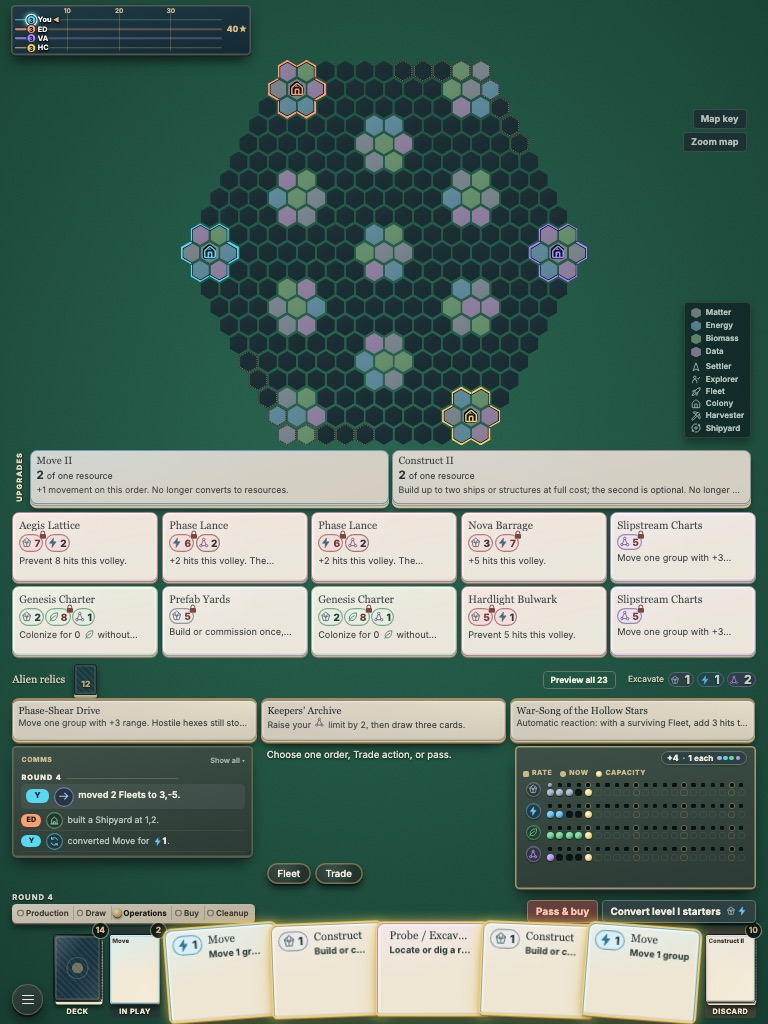
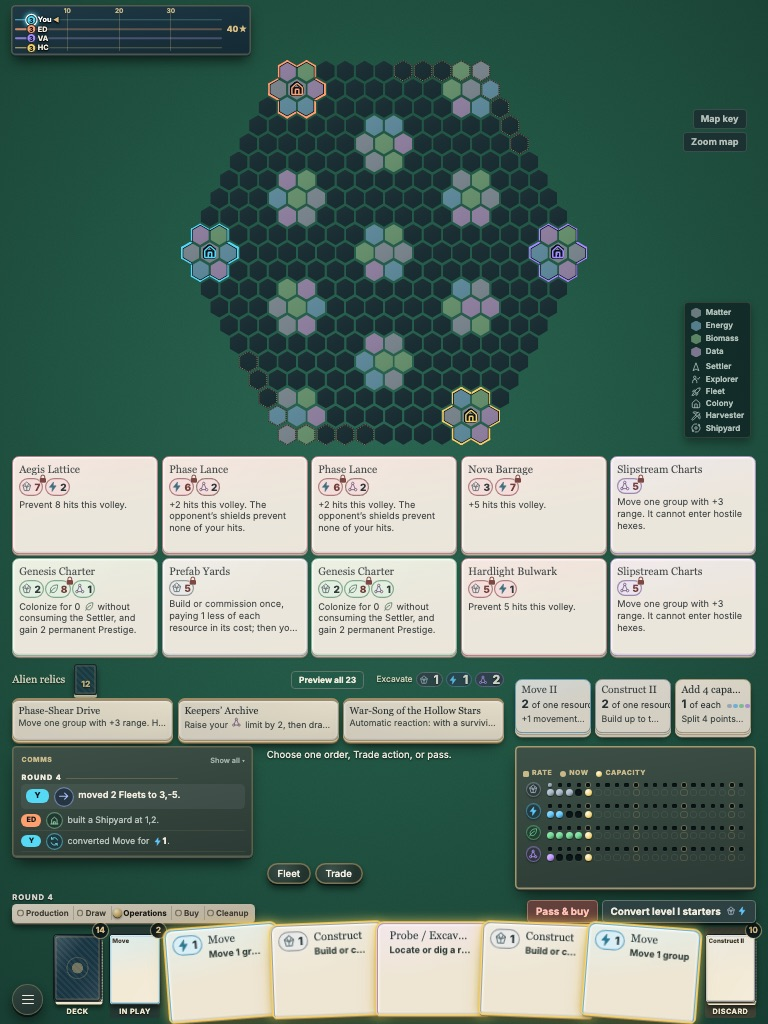
Upgrades group directly above the mat: starter upgrades and Add 4 capacity as cards with their current prices (and Trash a card during Buy); the +4 token leaves the mat

Changed region(s): [[0.0, 0.4375, 1.0, 0.625], [0.2188, 0.6562, 1.0, 0.75]]

diff --git a/prototypes/galactic-reach/rulebook.html b/prototypes/galactic-reach/rulebook.html
@@ -123,7 +123,7 @@
 
       <section id="movement">
         <h2>05 / Exploration &amp; movement</h2>
-        <p id="shared-board">Read shared table information around the board: on a desktop window, the whole window is one table, scaled as a whole to fit; the standings are the race to the Prestige goal, a small printed track by the map’s top-left corner with one lane per faction and its marker at its current score (the acting faction’s marker glows, with an arrow; point at or focus a marker for an overview of that faction’s Prestige sources, colonies, cards bought and fleet power, or select it for the breakdown; on a phone the track is the <strong>Table</strong> drawer); the comms feed lies in the bottom-left corner as a small card of the latest three entries, printed like your player mat; select it to open the whole feed, and again (or press Escape) to close it (each entry shows who acted, a symbol for the kind of event and its resource and Prestige amounts; point at an entry for the full sentence); the map itself fills all the space the other pieces leave, reaching into the corners around the track and the comms card, with a short key of the terrain colours and pieces in its bottom-right corner (the <strong>Map key</strong> button has the full descriptions); and to its right lies the supply, all visible together: the <strong>Upgrades</strong> tray (with <strong>Trash a card</strong> beside it during Buy), the ten market cards and the face-up alien relics; below the supply, by your seat, are the round’s phases, the turn prompt, <strong>Fleet</strong> and <strong>Trade</strong>, then the turn’s buttons. On your turn your hand glows and gently breathes (a still glow when your device asks for reduced motion). <strong>Fleet</strong> opens over the supply. The game’s title, rules, card gallery, new game, Undo and playtest notes open from the menu button in the bottom-left corner. The market shows its cards with their names and as much of each effect as fits, wrapped; on a wide window the market cards are drawn in real card proportions, three to five to a row, whichever makes them largest (point at one to read it in full; choose it to buy), and cards you can buy now are outlined in gold. <strong>Trade</strong> opens the trade channel in its own window. Card frames take the colour of the resource a card works with (gold for capacity, Buy and Prestige cards, red for military and attack cards); the map key shows them. Select a Prestige marker to inspect its breakdown; the scoring reference is in <a href="#victory">Victory</a>. On a narrow screen, these panels reflow inside the board frame; scroll the map to reach other hexes. The recent-action feed can say that Probe was used, but never gives its private relic location. Your hand, card piles, reserves, and full game-report download stay on your player mat. The report can include private information.</p>
+        <p id="shared-board">Read shared table information around the board: on a desktop window, the whole window is one table, scaled as a whole to fit; the standings are the race to the Prestige goal, a small printed track by the map’s top-left corner with one lane per faction and its marker at its current score (the acting faction’s marker glows, with an arrow; point at or focus a marker for an overview of that faction’s Prestige sources, colonies, cards bought and fleet power, or select it for the breakdown; on a phone the track is the <strong>Table</strong> drawer); the comms feed lies in the bottom-left corner as a small card of the latest three entries, printed like your player mat; select it to open the whole feed, and again (or press Escape) to close it (each entry shows who acted, a symbol for the kind of event and its resource and Prestige amounts; point at an entry for the full sentence); the map itself fills all the space the other pieces leave, reaching into the corners around the track and the comms card, with a short key of the terrain colours and pieces in its bottom-right corner (the <strong>Map key</strong> button has the full descriptions); and to its right lies the supply, all visible together: the ten market cards and the face-up alien relics; below the supply, by your seat, are the round’s phases, the turn prompt, <strong>Fleet</strong> and <strong>Trade</strong>, then the turn’s buttons, and directly above your player mat the <strong>Upgrades</strong> group: the starter upgrades and <strong>Add 4 capacity</strong> as cards, each showing its current price (with <strong>Trash a card</strong> beside them during Buy). On your turn your hand glows and gently breathes (a still glow when your device asks for reduced motion). <strong>Fleet</strong> opens over the supply. The game’s title, rules, card gallery, new game, Undo and playtest notes open from the menu button in the bottom-left corner. The market shows its cards with their names and as much of each effect as fits, wrapped; on a wide window the market cards are drawn in real card proportions, three to five to a row, whichever makes them largest (point at one to read it in full; choose it to buy), and cards you can buy now are outlined in gold. <strong>Trade</strong> opens the trade channel in its own window. Card frames take the colour of the resource a card works with (gold for capacity, Buy and Prestige cards, red for military and attack cards); the map key shows them. Select a Prestige marker to inspect its breakdown; the scoring reference is in <a href="#victory">Victory</a>. On a narrow screen, these panels reflow inside the board frame; scroll the map to reach other hexes. The recent-action feed can say that Probe was used, but never gives its private relic location. Your hand, card piles, reserves, and full game-report download stay on your player mat. The report can include private information.</p>
         <p id="keyboard-controls">Use <strong>Tab</strong> to reach controls and <strong>Enter</strong> or <strong>Space</strong> to activate them. The first link skips straight to player controls. Use arrow keys, Home, or End to switch the player-control tabs. Escape closes inspectors and reference windows. Combat and excess-resource choices stay open until you make the required choice.</p>
         <div class="book-legend" role="group" aria-label="Map symbols"><span><b class="relic-mark" aria-hidden="true">◈</b> Located relic</span><span><b class="relic-mark" aria-hidden="true">●</b> Gray moon · no production</span></div>
         <p>World terrain is always public, but seeing a world does not locate its relic. Any Settler, Fleet, or Explorer ending a move surveys that world or moon, revealing its terrain to everyone. Arrival never locates a relic. Use <strong>Probe</strong> from your Explorer’s current hex to locate the nearest remaining relic you have not already discovered, even on an unvisited world or hidden moon. Known sites are skipped. When you locate the last unknown site, a message tells you that all remaining relics are discovered. If all remaining sites are already known to you, Probe warns you without spending the card or your action. You do not need to reach that world or moon first. A signal on an undiscovered moon reveals the relic’s hex to you without revealing the moon’s terrain. Other players must locate it for themselves. Existing discovery relic cards keep their printed effects. Probe and Chorus signals stay private after later terrain surveys. Only an effect that explicitly reveals relics to everyone makes them public. All players’ units remain visible, including in empty space. Unit markers alone do not reveal a hidden moon or relic.</p>
@@ -198,7 +198,7 @@
       <section id="buy">
         <h2>09 / Improve your deck</h2>
         <p id="deck-inspection">Click <strong>Deck</strong> to inspect the cards remaining in your draw pile. Cards are grouped by name, starter status, and level, with quantities. Their draw order is hidden. Opening this view does not draw, shuffle, or change cards. Other factions cannot inspect your deck. Replays show deck size only.</p>
-        <p id="player-mat">You keep <strong>Deck</strong>, <strong>In play</strong>, and <strong>Discard</strong> as separate piles; on a desktop window they lie as card piles (the deck face down, In play and Discard with their top card face up, each stack as thick as its count): Deck and In play left of your hand, Discard in the bottom-right corner, with the turn’s main button (<strong>Pass &amp; buy</strong> or <strong>Finish Buy</strong>) and <strong>Convert level I starters</strong> just above it. Your player mat lies in the bottom-right corner beside Discard, with <strong>Add 4 capacity</strong> as a small <strong>+4</strong> token on it that always shows its current price, the same amount of each resource (for example “+4 · 2 each”), and Trade with the bank on the mat itself: drag from one resource’s Now row onto another resource to pay 4 for 1 (or choose the Now row, then the resource to receive). While you drag, the resources you can receive light up and a note shows the trade, or why it cannot be made. Click a pile to inspect it. In play holds cards you have already used this round; Discard holds cards available for a later reshuffle, including newly gained cards. Inspecting a pile never moves its cards. Your player mat has a band for each resource with two aligned rows of pip slots, and no numbers: the pips carry the values, and every fifth slot is marked so a row counts at a glance. <strong>Rate</strong> (the smaller pips) is filled up to that resource’s production per round. <strong>Now</strong> (the larger pips) is filled up to your stock. A gold pip just right of the last slot you may fill marks the resource’s limit: every slot left of it is a place a resource can go, and the slots past it are closed, so raising the limit moves the gold pip to the right and opens more slots. A value past the end of the row shows its number there. Your hand is held as a slightly fanned row of card tops in front of the board: each top shows the card’s name and level, what it converts into in its corner, and a one-line summary of its order. A held card shows no price; prices appear only in the market. A card whose order you can use now is outlined in gold. Point at a card, or Tab to its buttons, to lift it and show the whole card at reading size beside the map; choose an order or conversion with its <strong>Use order</strong> or <strong>Convert</strong> button. You can also drag a card from your hand. While you drag, the hexes where its order can start light up; dropping it on one starts the order there, exactly as choosing it from <strong>Orders from your hand</strong> in that hex’s Sector Scan would. A Move dropped on your units chooses them to move, and a Construct or Colonize dropped on a hex opens that hex’s choices. Drop a card on your reserves to convert it, or anywhere on the map to play an order that needs no hex. Dropping it anywhere else, or pressing Escape, plays nothing. On a desktop window the whole table fits on screen without scrolling: the board, your hand, standings, reserves and the open tab of your controls stay in view together.</p>
+        <p id="player-mat">You keep <strong>Deck</strong>, <strong>In play</strong>, and <strong>Discard</strong> as separate piles; on a desktop window they lie as card piles (the deck face down, In play and Discard with their top card face up, each stack as thick as its count): Deck and In play left of your hand, Discard in the bottom-right corner, with the turn’s main button (<strong>Pass &amp; buy</strong> or <strong>Finish Buy</strong>) and <strong>Convert level I starters</strong> just above it. Your player mat lies in the bottom-right corner beside Discard, with <strong>Add 4 capacity</strong> as a card in the Upgrades group just above it, showing its current price, the same amount of each resource (for example “2 of each”), and Trade with the bank on the mat itself: drag from one resource’s Now row onto another resource to pay 4 for 1 (or choose the Now row, then the resource to receive). While you drag, the resources you can receive light up and a note shows the trade, or why it cannot be made. Click a pile to inspect it. In play holds cards you have already used this round; Discard holds cards available for a later reshuffle, including newly gained cards. Inspecting a pile never moves its cards. Your player mat has a band for each resource with two aligned rows of pip slots, and no numbers: the pips carry the values, and every fifth slot is marked so a row counts at a glance. <strong>Rate</strong> (the smaller pips) is filled up to that resource’s production per round. <strong>Now</strong> (the larger pips) is filled up to your stock. A gold pip just right of the last slot you may fill marks the resource’s limit: every slot left of it is a place a resource can go, and the slots past it are closed, so raising the limit moves the gold pip to the right and opens more slots. A value past the end of the row shows its number there. Your hand is held as a slightly fanned row of card tops in front of the board: each top shows the card’s name and level, what it converts into in its corner, and a one-line summary of its order. A held card shows no price; prices appear only in the market. A card whose order you can use now is outlined in gold. Point at a card, or Tab to its buttons, to lift it and show the whole card at reading size beside the map; choose an order or conversion with its <strong>Use order</strong> or <strong>Convert</strong> button. You can also drag a card from your hand. While you drag, the hexes where its order can start light up; dropping it on one starts the order there, exactly as choosing it from <strong>Orders from your hand</strong> in that hex’s Sector Scan would. A Move dropped on your units chooses them to move, and a Construct or Colonize dropped on a hex opens that hex’s choices. Drop a card on your reserves to convert it, or anywhere on the map to play an order that needs no hex. Dropping it anywhere else, or pressing Escape, plays nothing. On a desktop window the whole table fits on screen without scrolling: the board, your hand, standings, reserves and the open tab of your controls stay in view together.</p>
         <p id="market">As soon as you pass, you may buy any number of the <strong>ten face-up market cards</strong> you can afford. Pay each card’s price separately. Each purchase refills immediately, and you may buy a newly revealed card during the same Buy turn. There is no purchase-count limit. Choose Finish Buy whenever you are done. Move and Construct are not for sale in this playtest; your six starters are your only basic cards. Colonize and Probe are bundled only with unit commissions, and Excavate is the second option on the Explorer-bundled card. You cannot return to Operations this round.</p>
         <p>The market draws from one shuffled supply of 62 cards: two copies of each of 22 normal-deck designs and 9 military designs. A bought normal card enters your discard pile. A bought military card joins your <a href="#military-deck">military deck</a> instead. Refill the empty slot immediately from the supply. When the supply runs out, the market shrinks. A Wonder gives its Prestige the moment you buy it. A card you cannot buy right now is shaded in the market. Its price sits in the card’s top-left corner: a padlock marks each resource whose price is above your limit for it, and a dashed outline each one you hold too little of. The reason shows when you raise the card and on hover, for example <em>Needs 2 more Data</em> or <em>Raise Energy capacity to 6</em>.</p>
         <p>During the same Buy turn you may also:</p>

diff --git a/prototypes/galactic-reach/app.js b/prototypes/galactic-reach/app.js
@@ -4117,9 +4117,17 @@ function createGalacticReach(options = {}) {
       const reason=!humanBuy?'Upgrade during your Buy turn.':!ready.length?'No upgradeable starter in hand, discard or in play.':!canPay?`Needs ${price} of one resource.`:'';
       const effect=`${upgradedOrderText({key})}${level===3?' Draws one card when used as an order.':''} No longer converts to resources.`;
       return `<button class="game-card upgrade-offer ${reason?'unavailable':''}" style="--card-accent:${def.accent}" data-upgrade-offer="${key}" ${reason?`disabled title="${reason}"`:''} aria-label="Upgrade ${esc(def.name)} to level ${LEVEL_NAMES[level]} for ${price} of one resource; does not use a purchase${reason?`. Unavailable: ${reason}`:''}"><span class="card-type">Starter upgrade</span><span class="card-name">${def.name} ${LEVEL_NAMES[level]}</span>${cardIllustration(def)}<span class="card-effect">${effect}</span><span class="card-footer"><small>Upgrade</small><span class="upgrade-price"><strong>${price}</strong> of one resource</span></span><span class="card-limit-note">${note}</span></button>`;
-    }).join('');
+    }).join('')+capacityOffer();
     $$('[data-upgrade-offer]').forEach(button=>button.addEventListener('click',()=>openUpgradeChoice(button.dataset.upgradeOffer)));
+    $('[data-capacity-offer]')?.addEventListener('click',()=>openStorageAllocation());
     if ($('#upgrade-dialog').open) renderUpgradeChoice();
+  }
+  // Add 4 capacity lies with the starter upgrades as a card of the same kind, showing its current
+  // price (the same amount of each resource). It opens the same split-the-points dialog.
+  function capacityOffer() {
+    const cost=storageUpgradeCost(ME);
+    const reason=!canManageResources(ME)?'Add capacity during Operations or Buy, including off turn.':!canIncreaseStorage(ME)?`Needs ${cost.matter} of each resource.`:'';
+    return `<button class="game-card upgrade-offer capacity-offer ${reason?'unavailable':''}" style="--card-accent:var(--gold)" data-capacity-offer ${reason?`disabled title="${reason}"`:''} aria-label="Add 4 capacity for ${cost.matter} of each resource${reason?`. Unavailable: ${reason}`:''}"><span class="card-type">Capacity</span><span class="card-name">Add 4 capacity</span><span class="card-effect">Split 4 points among your resource limits as you choose.</span><span class="card-footer"><small>Upgrade</small><span class="upgrade-price"><strong>${cost.matter}</strong> of each<span class="each-dots" aria-hidden="true">${RESOURCES.map(resource => `<i class="${resource}"></i>`).join('')}</span></span></span></button>`;
   }
   function openUpgradeChoice(key) {
     upgradeChoiceKey=key;

diff --git a/prototypes/galactic-reach/styles.css b/prototypes/galactic-reach/styles.css
@@ -2590,3 +2590,35 @@ html { -webkit-text-size-adjust: 100%; text-size-adjust: 100%; }
   .table-wide #market-row .card-footer .resource-symbol { width: 12px !important; height: 12px !important; }
   .table-wide #market-row .card-footer .resource-chip strong { font-size: 12px !important; }
 }
+
+/* ==== Upgrades lie directly above your mat: the starter upgrades and Add 4 capacity as cards of
+   the same kind, each with its current price, and Trash a card during Buy. The +4 token on the
+   mat is gone. ==== */
+.storage-upgrade-control { display: none !important; }
+@media (min-width: 600px) and (min-height: 600px) {
+  .upgrade-group { flex: none; min-height: 0; margin: 0; }
+  .upgrade-group #upgrade-market { grid-template-columns: 18px repeat(3, minmax(0, 1fr)) !important; }
+  .capacity-offer .each-dots { display: inline-flex; gap: 2px; margin-left: 4px; vertical-align: middle; }
+  .capacity-offer .each-dots i { width: 6px; height: 6px; border-radius: 50%; }
+  .capacity-offer .each-dots i.matter { background: var(--matter); }
+  .capacity-offer .each-dots i.energy { background: var(--energy); }
+  .capacity-offer .each-dots i.biomass { background: var(--biomass); }
+  .capacity-offer .each-dots i.data { background: var(--data); }
+}
+@media (min-width: 600px) and (min-height: 600px) and (orientation: landscape) {
+  #hand-panel .hand-tools { grid-row: 5 !important; }
+  .upgrade-group { grid-column: 3 !important; grid-row: 6 !important; align-self: end; margin-top: 6px; }
+}
+@media (min-width: 600px) and (min-height: 600px) and (orientation: portrait) {
+  #relics-panel, #relics-panel[hidden] { grid-column: 1 / 3 !important; }
+  .upgrade-group { grid-column: 3 !important; grid-row: 5 !important; align-self: end; }
+  .upgrade-group #upgrade-market { grid-template-columns: repeat(3, minmax(0, 1fr)) !important; }
+  .upgrade-group #upgrade-market::before { display: none; }
+}
+/* Phones: the group sits in the Mat drawer above the mat. */
+@media (max-width: 599px), (max-height: 599px) {
+  .upgrade-group { display: block; margin: 0 0 8px; }
+  .upgrade-group #upgrade-market { display: grid; grid-template-columns: repeat(3, minmax(0, 1fr)); gap: 6px; }
+  .upgrade-group #upgrade-market .game-card { min-height: 0; padding: 6px 7px; }
+  .upgrade-group #upgrade-market :is(.card-art, .card-lore, .card-limit-note) { display: none; }
+}

diff --git a/prototypes/galactic-reach/index.html b/prototypes/galactic-reach/index.html
@@ -138,6 +138,10 @@
 
           </div>
         </div>
+        <section class="upgrade-group market-cards" id="upgrade-group" aria-label="Upgrades">
+          <div class="upgrade-market" id="upgrade-market" role="group" aria-label="Upgrades: starter upgrades and Add 4 capacity"></div>
+          <button class="button" id="open-trash" type="button" hidden>Trash a card</button>
+        </section>
         <div class="resource-grid" id="resource-grid"></div>
         <div class="pile-stats" role="group" aria-label="Your card piles">
           <button id="deck-button" type="button" title="Inspect remaining cards without revealing draw order"><span class="pile-card" aria-hidden="true"></span><span class="pile-label">Deck</span> <strong id="deck-count">0</strong></button>
@@ -200,8 +204,6 @@
             </div>
             <div class="basic-market" id="basic-market"></div>
             <div class="market-cards">
-              <div class="upgrade-market" id="upgrade-market" role="group" aria-label="Starter upgrades"></div>
-              <button class="button" id="open-trash" type="button" hidden>Trash a card</button>
               <div class="card-row market-row" id="market-row"></div>
             </div>
           </div>

diff --git a/changes/gr-ui-followup.md b/changes/gr-ui-followup.md
@@ -3,4 +3,4 @@ compat: safe
 title: The turn lies with your seat
 pr: 74
 ---
-The round's phases, the turn prompt and Fleet/Trade now sit at the bottom of the supply, next to your hand and the turn's buttons, and the supply starts at the top. On your turn your hand glows and gently breathes instead of a "Your turn" banner ([Shared board](rulebook.html#shared-board)). Market cards show their whole name and as much of their effect as fits, so they read without pointing at them; on wide windows market cards are real card shapes, as large as the space allows. A short key of the terrain colours and pieces lies in the map's empty corner. Your hand, the market, your mat and the map read first; the relics, upgrades, phases and comms sit back until you point at them. The mat no longer offers a Discard: resources above a limit are still discarded automatically ([Resources](rulebook.html#resources)). The +4 capacity token always shows its current price.
+The round's phases, the turn prompt and Fleet/Trade now sit at the bottom of the supply, next to your hand and the turn's buttons, and the supply starts at the top. On your turn your hand glows and gently breathes instead of a "Your turn" banner ([Shared board](rulebook.html#shared-board)). Market cards show their whole name and as much of their effect as fits, so they read without pointing at them; on wide windows market cards are real card shapes, as large as the space allows. A short key of the terrain colours and pieces lies in the map's empty corner. Your hand, the market, your mat and the map read first; the relics, upgrades, phases and comms sit back until you point at them. The mat no longer offers a Discard: resources above a limit are still discarded automatically ([Resources](rulebook.html#resources)). An Upgrades group directly above your mat holds the starter upgrades and Add 4 capacity as cards, each with its current price.
